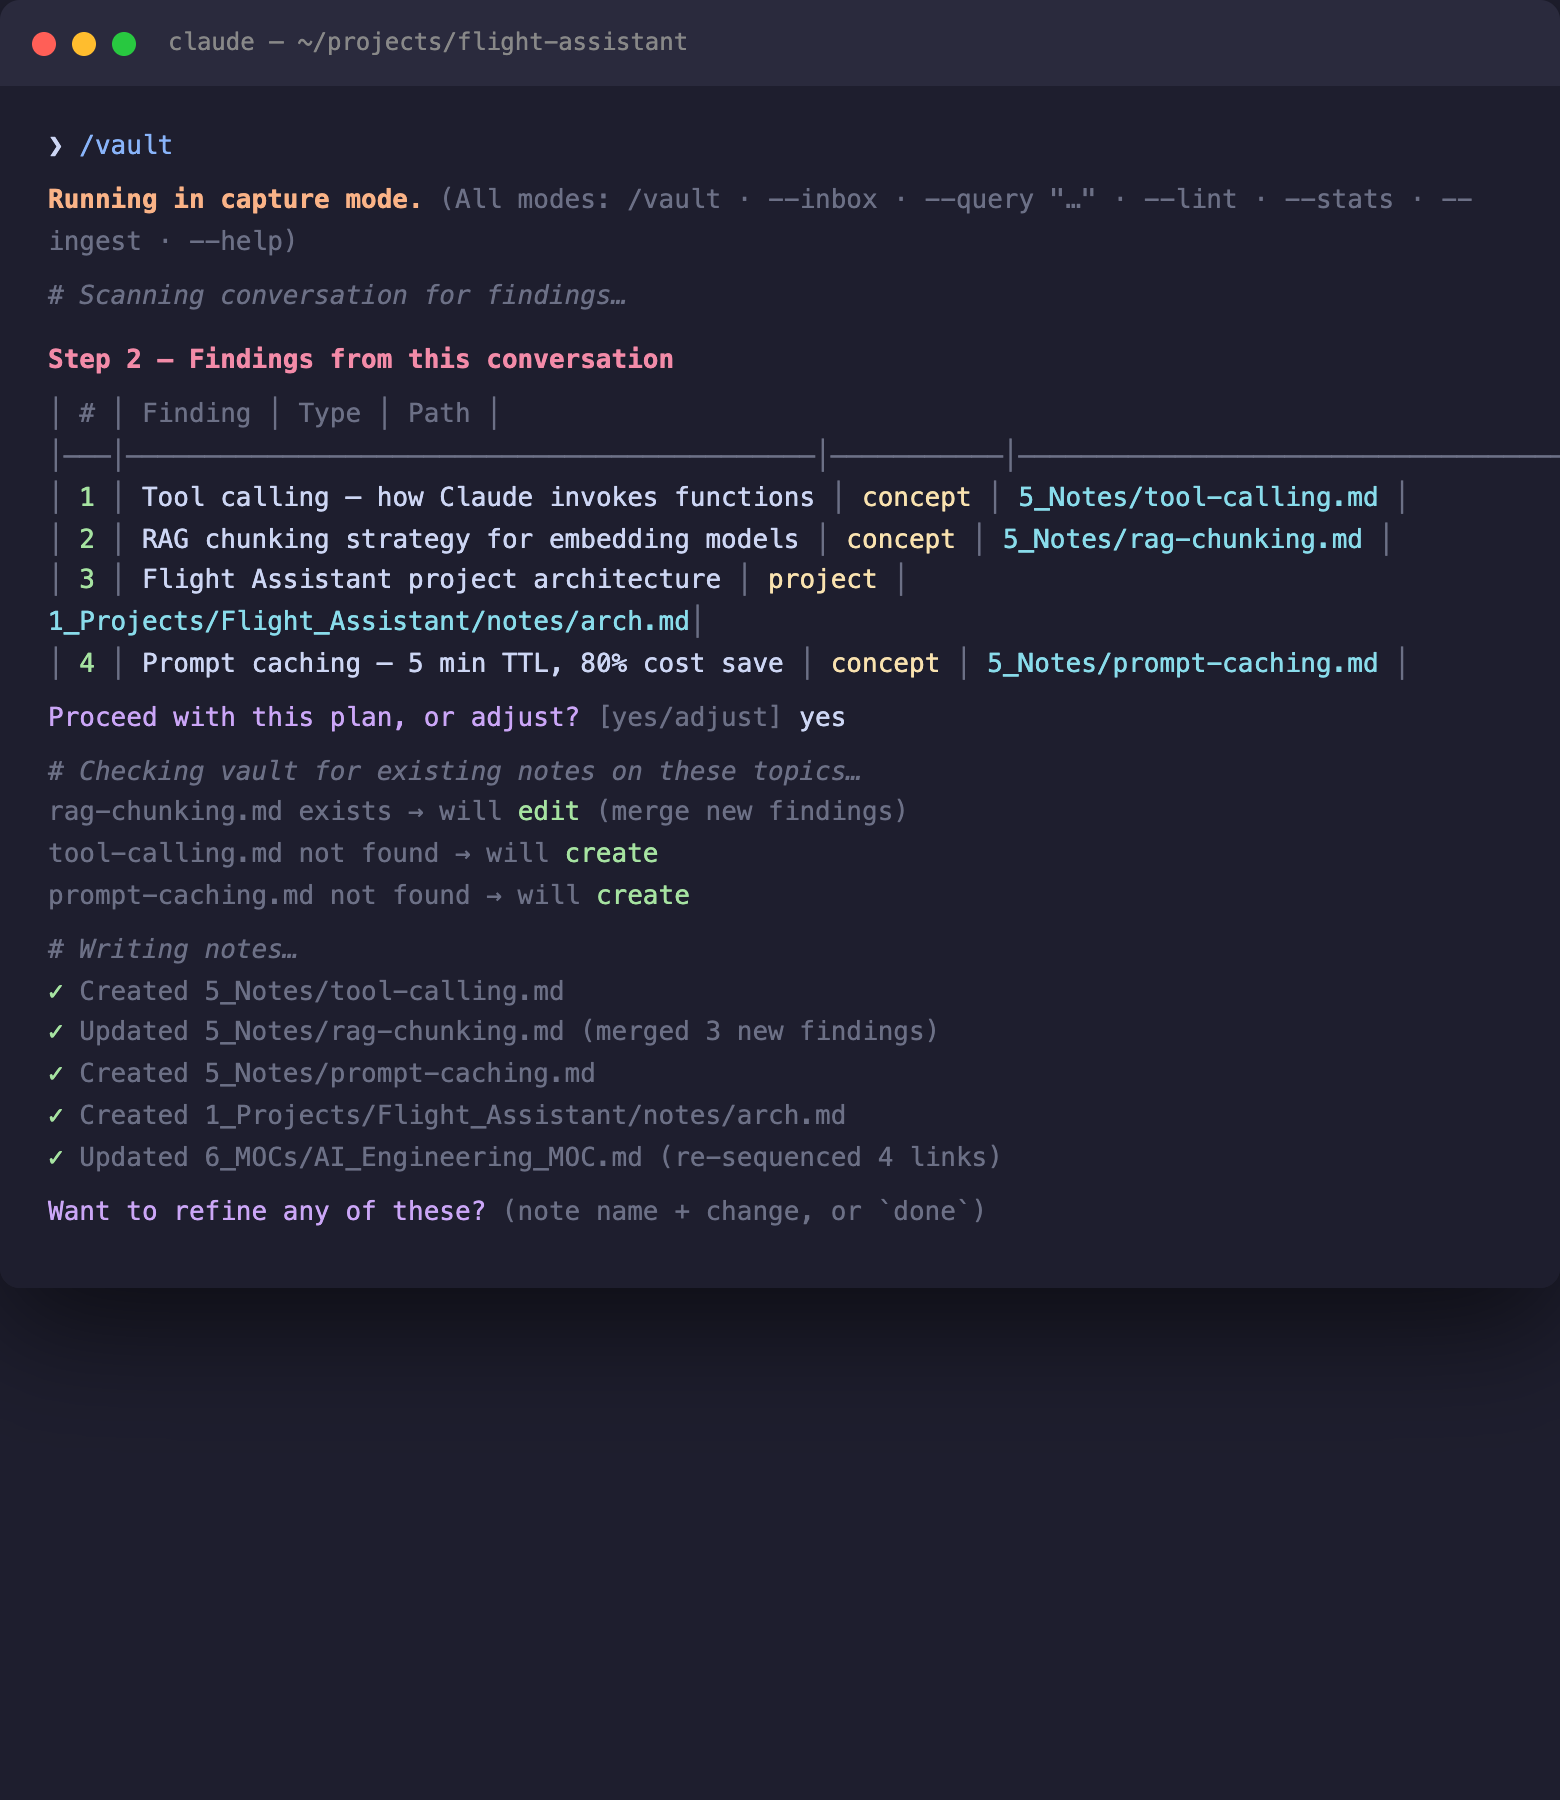
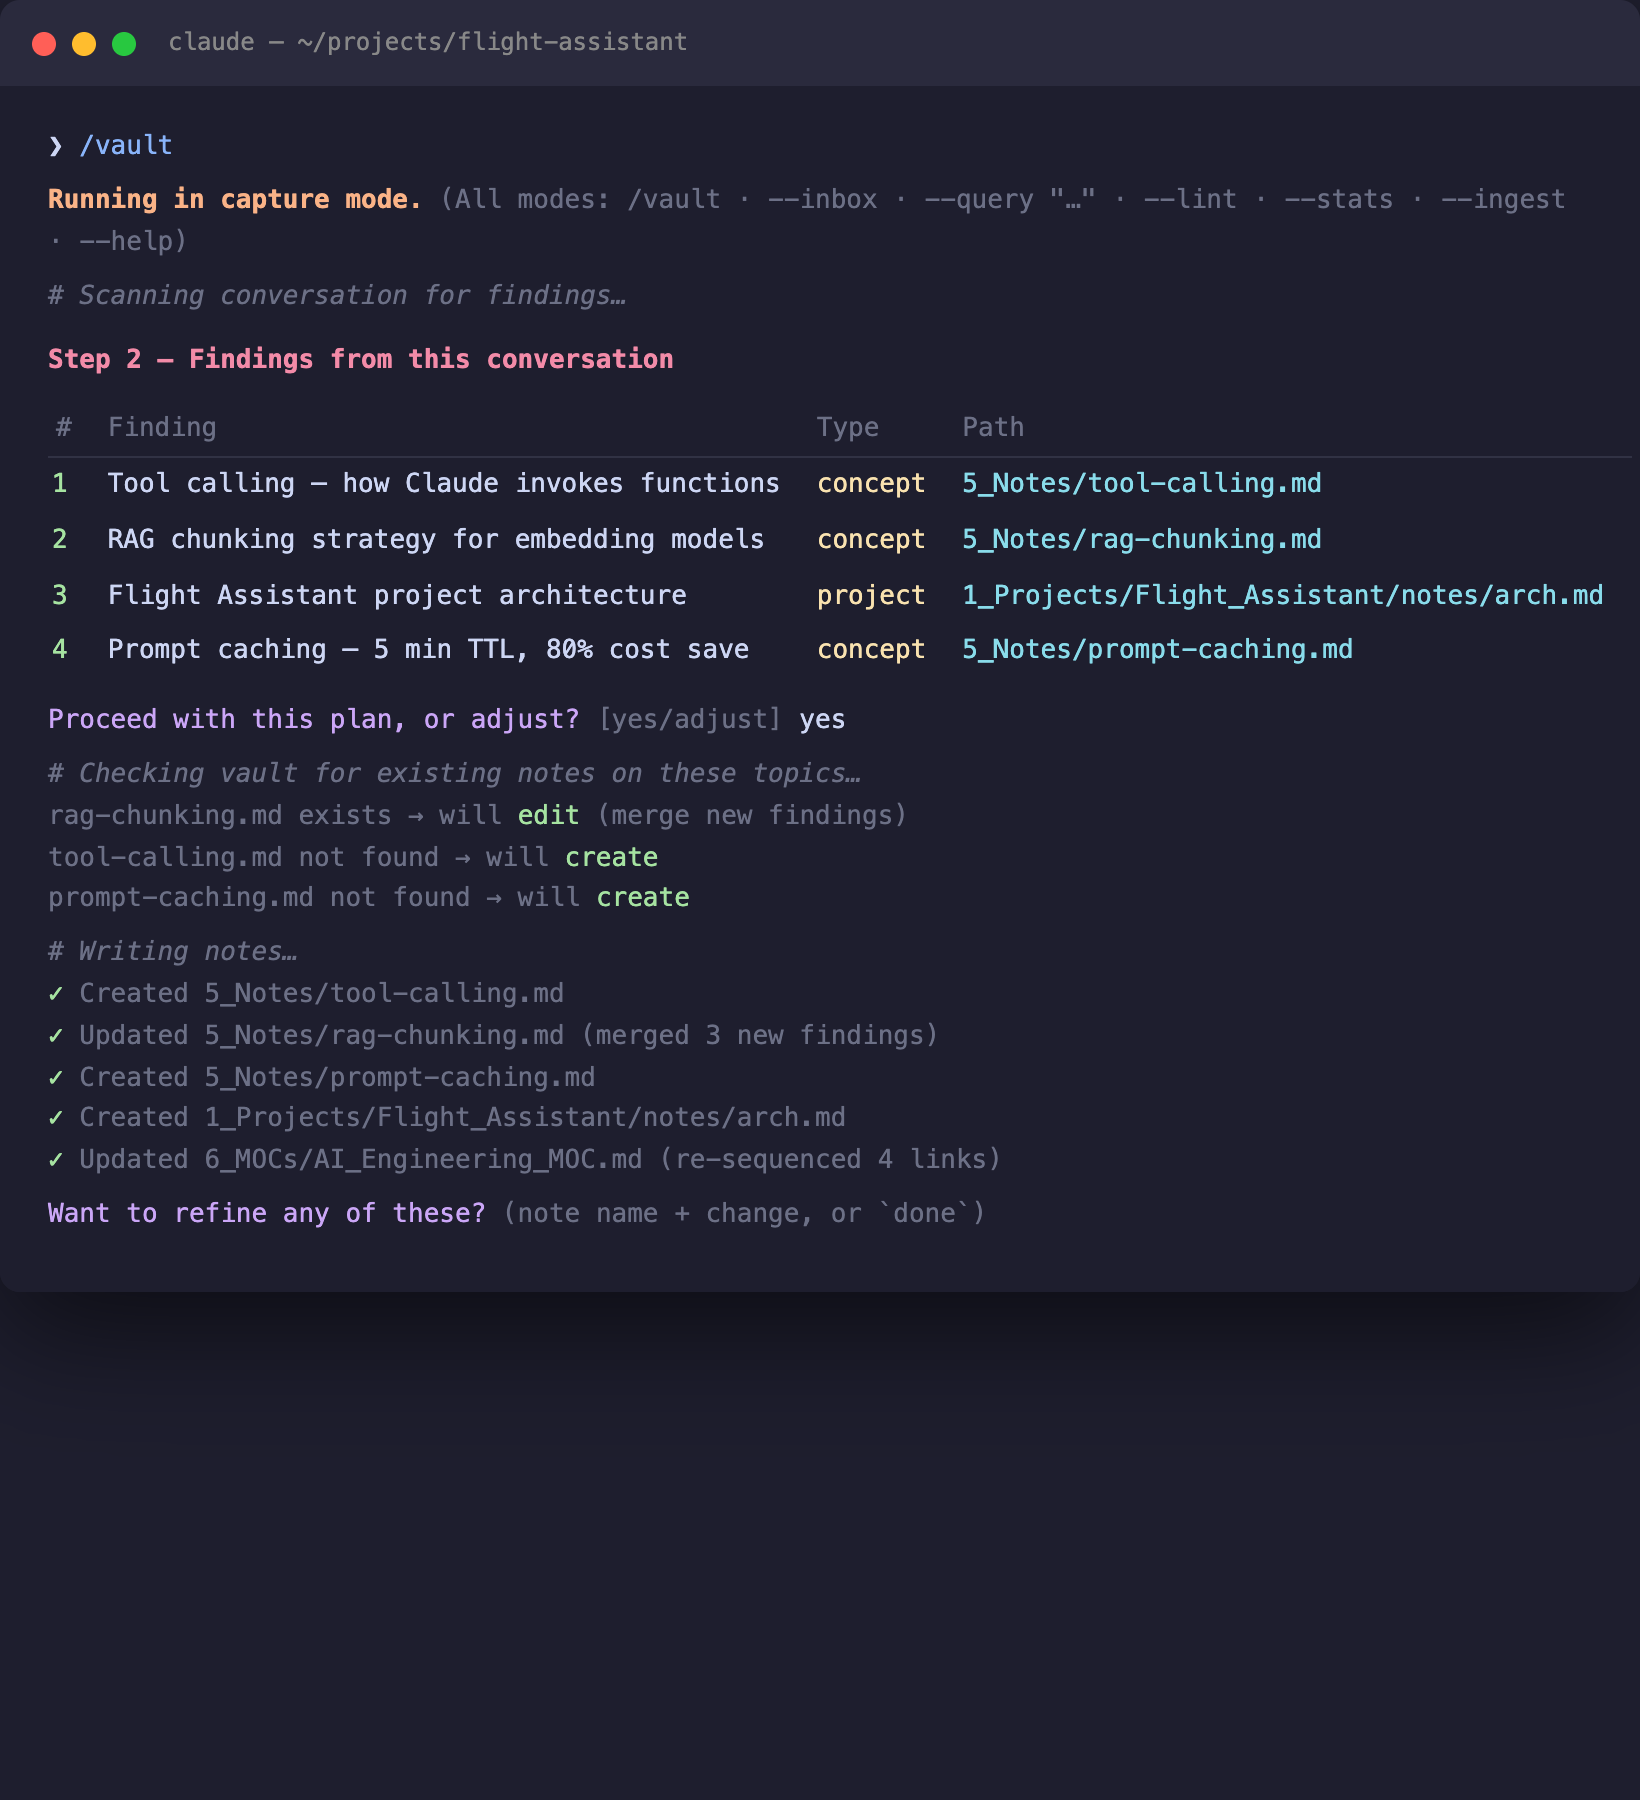
docs: fix table alignment in vault command screenshot

diff --git a/docs/screenshots/tmp/01-terminal.html b/docs/screenshots/tmp/01-terminal.html
@@ -4,7 +4,7 @@
 <meta charset="utf-8">
 <style>
   * { margin: 0; padding: 0; box-sizing: border-box; }
-  body { background: #1e1e2e; font-family: 'SF Mono', 'Menlo', 'Monaco', monospace; font-size: 13px; line-height: 1.6; width: 780px; }
+  body { background: #1e1e2e; font-family: 'SF Mono', 'Menlo', 'Monaco', monospace; font-size: 13px; line-height: 1.6; width: 820px; }
   .window { border-radius: 10px; overflow: hidden; box-shadow: 0 20px 60px rgba(0,0,0,0.6); }
   .titlebar { background: #2a2a3d; padding: 12px 16px; display: flex; align-items: center; gap: 8px; }
   .dot { width: 12px; height: 12px; border-radius: 50%; }
@@ -24,6 +24,13 @@
   .confirm { color: #cba6f7; }
   .blank { height: 6px; }
   .skill-label { color: #fab387; font-weight: bold; }
+  table { border-collapse: collapse; width: 100%; margin: 4px 0; }
+  th { color: #6c7086; font-weight: normal; padding: 3px 14px 3px 4px; text-align: left; border-bottom: 1px solid #313244; white-space: nowrap; }
+  td { padding: 3px 14px 3px 4px; border-bottom: 1px solid #1e1e2e; white-space: nowrap; }
+  td:first-child { color: #a6e3a1; text-align: center; padding-left: 0; }
+  td.finding { color: #cdd6f4; }
+  td.type { color: #f9e2af; }
+  td.path { color: #89dceb; }
 </style>
 </head>
 <body>
@@ -43,12 +50,35 @@
     <div class="blank"></div>
     <div class="section">Step 2 — Findings from this conversation</div>
     <div class="blank"></div>
-    <div><span class="dim">│ # │ Finding                                    │ Type      │ Path                                    │</span></div>
-    <div><span class="dim">│───│────────────────────────────────────────────│───────────│─────────────────────────────────────────│</span></div>
-    <div><span class="dim">│ </span><span class="note-num">1</span><span class="dim"> │ </span><span class="prompt">Tool calling — how Claude invokes functions </span><span class="dim">│ </span><span class="note-type">concept</span><span class="dim">   │ </span><span class="note-path">5_Notes/tool-calling.md</span><span class="dim">                  │</span></div>
-    <div><span class="dim">│ </span><span class="note-num">2</span><span class="dim"> │ </span><span class="prompt">RAG chunking strategy for embedding models  </span><span class="dim">│ </span><span class="note-type">concept</span><span class="dim">   │ </span><span class="note-path">5_Notes/rag-chunking.md</span><span class="dim">                  │</span></div>
-    <div><span class="dim">│ </span><span class="note-num">3</span><span class="dim"> │ </span><span class="prompt">Flight Assistant project architecture       </span><span class="dim">│ </span><span class="note-type">project</span><span class="dim">   │ </span><span class="note-path">1_Projects/Flight_Assistant/notes/arch.md</span><span class="dim">│</span></div>
-    <div><span class="dim">│ </span><span class="note-num">4</span><span class="dim"> │ </span><span class="prompt">Prompt caching — 5 min TTL, 80% cost save  </span><span class="dim">│ </span><span class="note-type">concept</span><span class="dim">   │ </span><span class="note-path">5_Notes/prompt-caching.md</span><span class="dim">               │</span></div>
+    <table>
+      <tr>
+        <th>#</th><th>Finding</th><th>Type</th><th>Path</th>
+      </tr>
+      <tr>
+        <td>1</td>
+        <td class="finding">Tool calling — how Claude invokes functions</td>
+        <td class="type">concept</td>
+        <td class="path">5_Notes/tool-calling.md</td>
+      </tr>
+      <tr>
+        <td>2</td>
+        <td class="finding">RAG chunking strategy for embedding models</td>
+        <td class="type">concept</td>
+        <td class="path">5_Notes/rag-chunking.md</td>
+      </tr>
+      <tr>
+        <td>3</td>
+        <td class="finding">Flight Assistant project architecture</td>
+        <td class="type">project</td>
+        <td class="path">1_Projects/Flight_Assistant/notes/arch.md</td>
+      </tr>
+      <tr>
+        <td>4</td>
+        <td class="finding">Prompt caching — 5 min TTL, 80% cost save</td>
+        <td class="type">concept</td>
+        <td class="path">5_Notes/prompt-caching.md</td>
+      </tr>
+    </table>
     <div class="blank"></div>
     <div><span class="confirm">Proceed with this plan, or adjust? </span><span class="dim">[yes/adjust]</span><span class="prompt"> yes</span></div>
     <div class="blank"></div>
